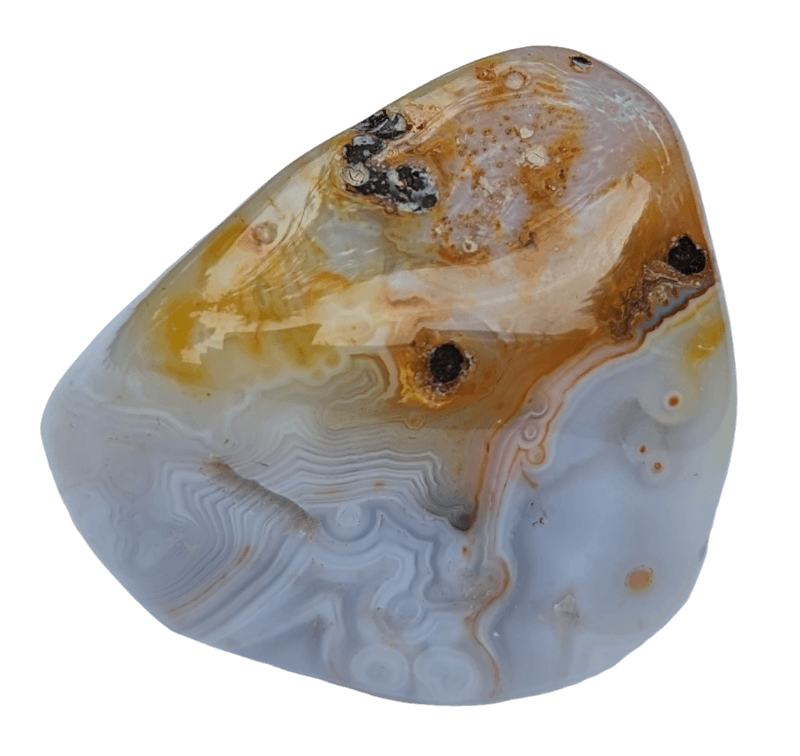
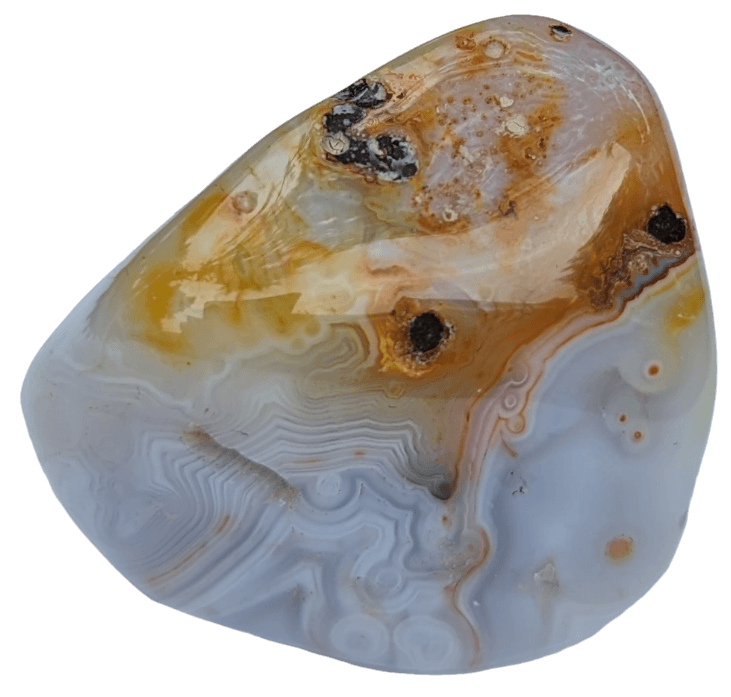
changed image sizes

diff --git a/Gem-Box.html b/Gem-Box.html
@@ -13,7 +13,7 @@
         </header>
         <div id="outer-box"> 
             <div class="box-section">
-                <img src="Scenic-Quartz.png" alt="marble sized, scenic quartz sphere">
+                <img src="Scenic-Quartz.png" style="width:calc(100% - 200px);" alt="marble sized, scenic quartz sphere">
                 <label>
                     Lodolite - scenic quartz<br>
                     characteristics: contains chlorite inclusions<br>
@@ -23,7 +23,7 @@
             </label>
             </div>
             <div class="box-section">
-                <img src="Quartz-Crystal.png" alt="small clear quartz crystal with many points">
+                <img src="Quartz-Crystal.png" style="width:calc(100% - 100px);" alt="small clear quartz crystal with many points">
                 <label>
                     quartz crystal<br>
                     characteristics: many tiny crystal points<br>
@@ -33,7 +33,7 @@
             </label>
             </div>
             <div class="box-section">
-                <img src="Desert-Jasper.png" alt="tumbled desert jasper stone">
+                <img src="Desert-Jasper.png" style="width:calc(100% - 100px);" alt="tumbled desert jasper stone">
                 <label>
                     desert jasper<br>
                     characteristics: opaque; brown, red and tan colors from iron inclusions<br>
@@ -43,7 +43,7 @@
             </label>
             </div>
             <div class="box-section">
-                <img src="Chlorite-Quartz.png" alt="piece of pale green, matte chlorite quartz crystal">
+                <img src="Chlorite-Quartz.png" style="width:calc(100% - 0px);" alt="piece of pale green, matte chlorite quartz crystal">
                 <label>
                     chlorite quartz<br>
                     characteristics: pale green color, either as inclusions or rough, opaque texture<br>
@@ -53,7 +53,7 @@
             </label>
             </div>
             <div class="box-section">
-                <img src="Quartz-w-Calcite.png" alt="small piece of quartz crystal cluster with calcite">
+                <img src="Quartz-w-Calcite.png" style="width:calc(100% - 0px);" alt="small piece of quartz crystal cluster with calcite">
                 <label>
                         quartz crystal with calcite<br>
                         characteristics: <br>
@@ -63,7 +63,7 @@
                 </label>
             </div>
             <div class="box-section">
-                <img src="Kaolinite-in-Quartz.png" alt="tiny sphere of blue colored kaolinite in quartz; looks like a tiny blue planet">
+                <img src="Kaolinite-in-Quartz.png" style="width:calc(100% - 200px);" alt="tiny sphere of blue colored kaolinite in quartz; looks like a tiny blue planet">
                 <label>
                     kaolinite in quartz<br>
                     characteristics: clay and layered silicate mineral; kaolinite is white in color and is one of the most common minerals<br>
@@ -73,7 +73,7 @@
             </label>
             </div>
             <div class="box-section">
-                <img src="Titanium-Aura-Quartz.png" alt="three tiny individual titanium aura quartz crystals; they all have a multicolored chrome color effect">
+                <img src="Titanium-Aura-Quartz.png" style="width:calc(100% - 150px);" alt="three tiny individual titanium aura quartz crystals; they all have a multicolored chrome color effect">
                 <label>
                     titanium aura quartz<br>
                     characteristics: quartz crystal coated in the metal, titanium<br>
@@ -83,7 +83,7 @@
             </label>
             </div>
             <div class="box-section">
-                <img src="Green-Tourmaline.png" alt="tiny green tourmaline specimen, has transluscent teal to green gradient">
+                <img src="Green-Tourmaline.png" style="width:calc(100% - 200px);" alt="tiny green tourmaline specimen, has transluscent teal to green gradient">
                 <label>
                     green tourmaline<br>
                     characteristics: green tourmaline is part of the lithium-tourmaline elbaite species<br>

diff --git a/Gem-Box-Style.css b/Gem-Box-Style.css
@@ -41,9 +41,11 @@ p {
     background-color: #edddaf;
 }
 img {  
-    max-width: 80%;  
+    display:block;
+    max-width: 100%;  
     height: auto;
-    margin: 10px auto;    
+    margin: 10px auto;
+        
 }
 label {
     background-image: url(label.png);
